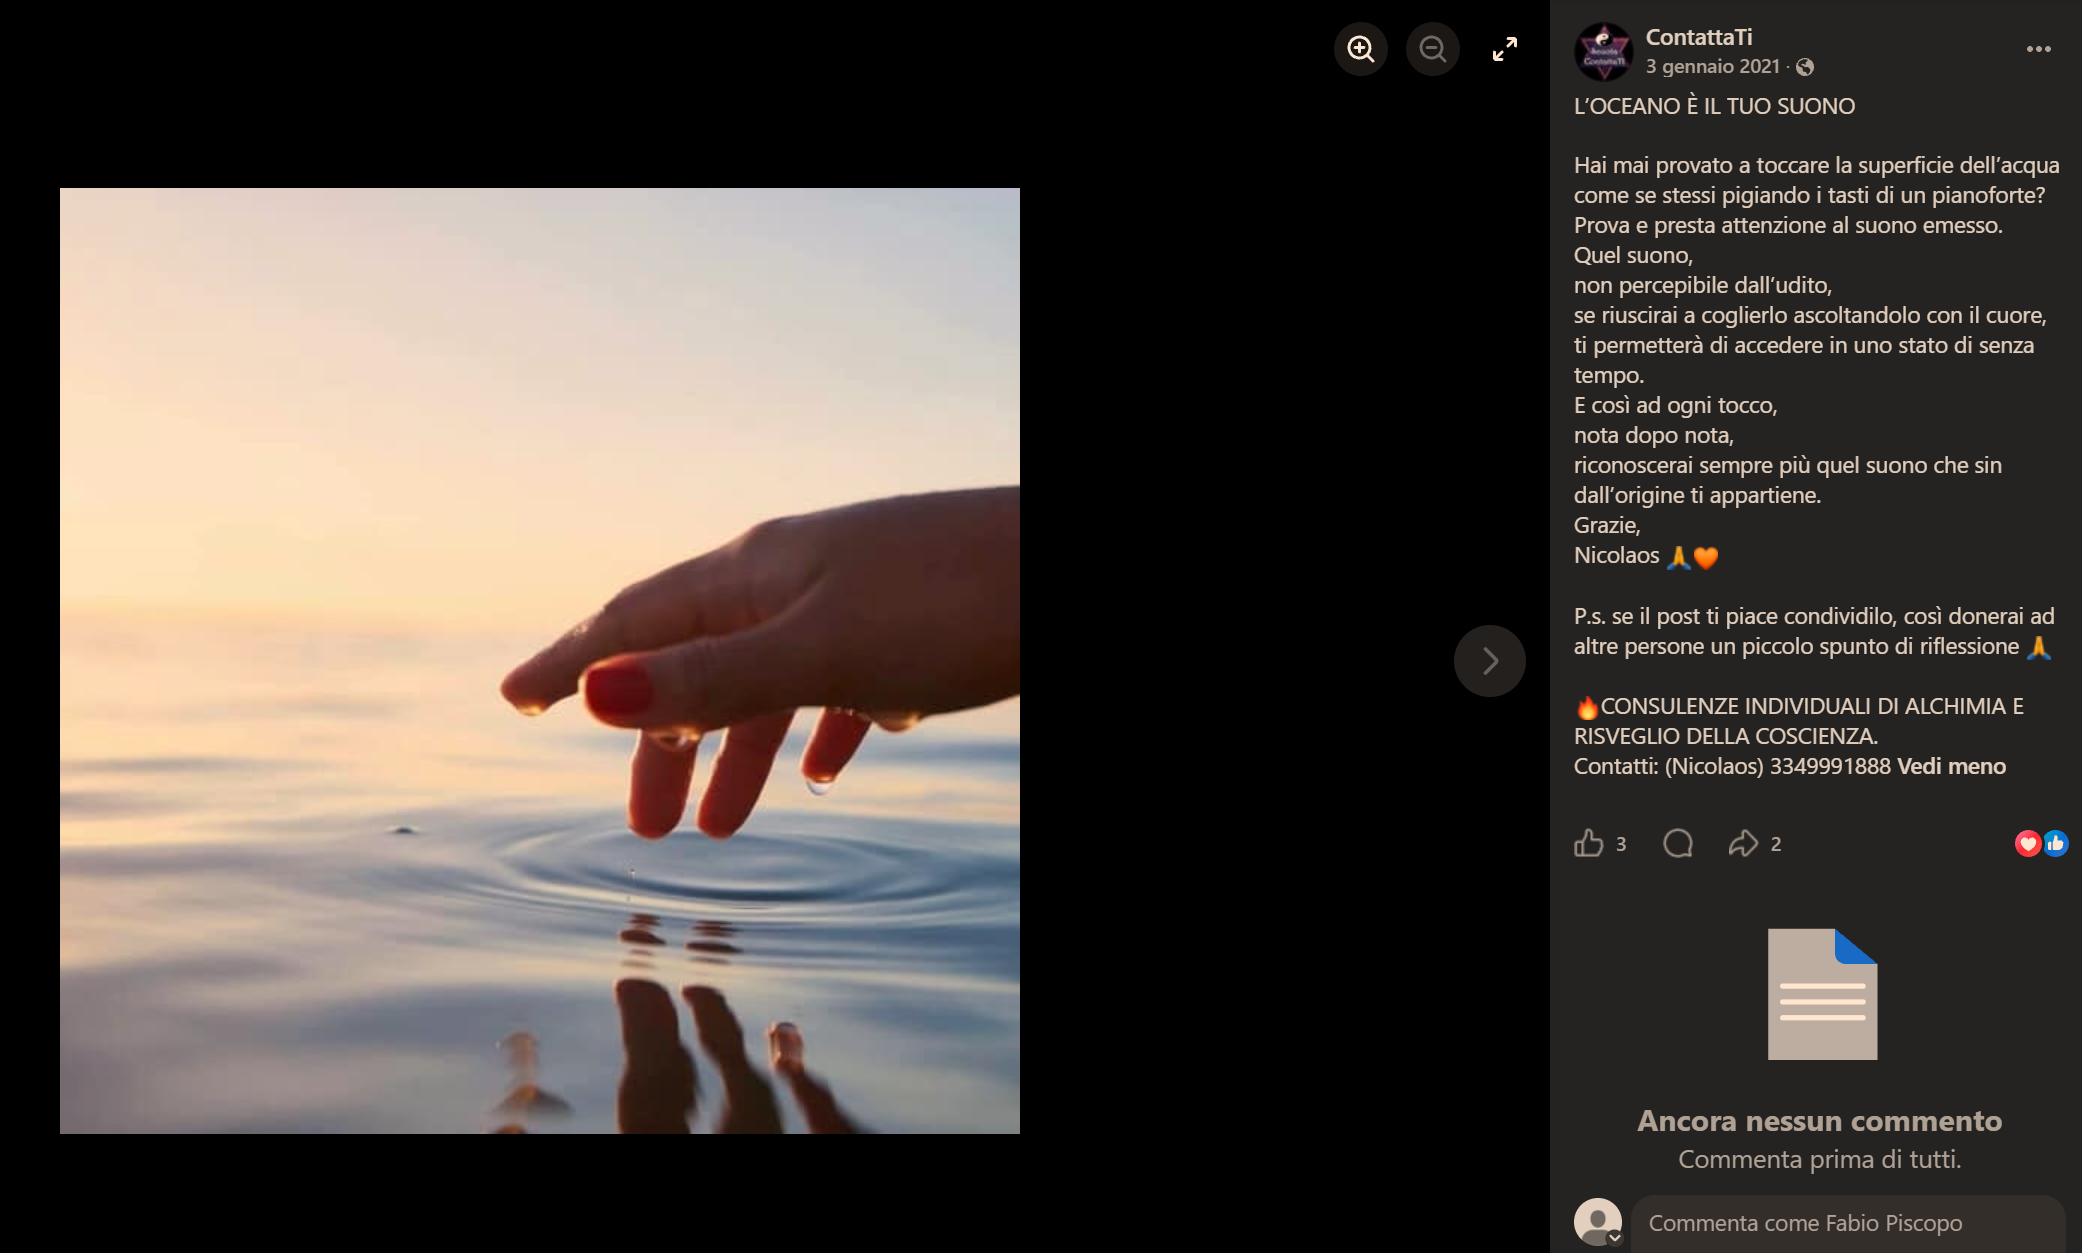
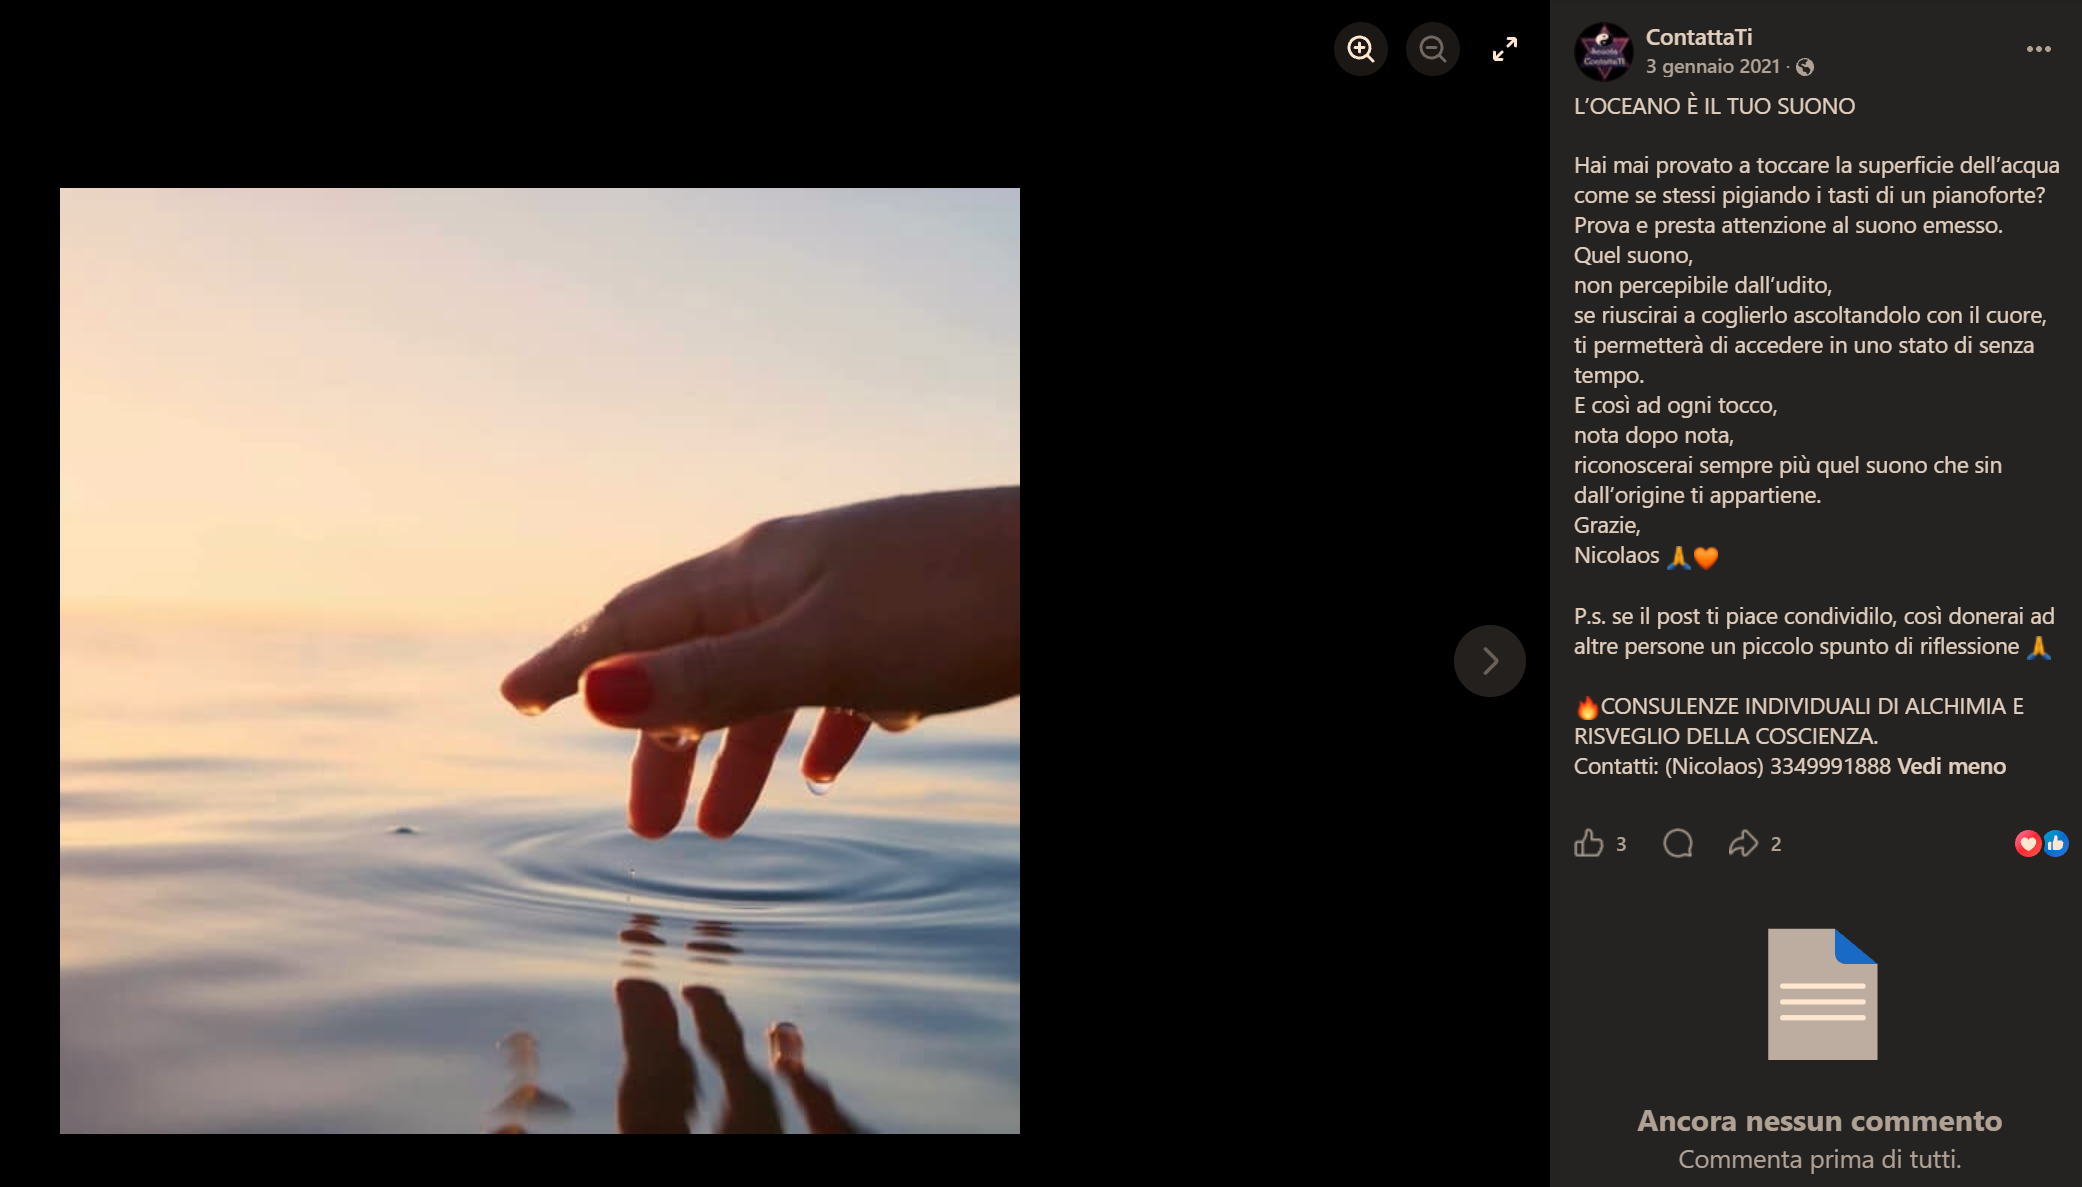
Quaderno a 7 voci, quattro citazioni nuove, screenshot ripuliti dalla barra commenti
- Tre nuove card nel quaderno della Scuola (it + en): 'Sei il contenuto
  o il contenitore?' (kintsugi, Nicolaos), 'Nonno, i tuoi occhi mi
  parlavano' (Nicolaos) e l'Atto di abbandono a Gesù di Don Dolindo
  Ruotolo (estratto, senza le parti ripetute del testo originale)
- Quattro citazioni nell'Oracolo (ora 131): Marthe Robin, Bhagavad
  Gita, Anna Carla (incongruenze e incoerenze) e Nicolaos (gocce e
  tempesta)
- Ritagliata in 14 screenshot di post/ la parte bassa con il campo
  'Commenta come...' che esponeva il profilo personale: rilevamento
  automatico della barra dei commenti, verificato che i tagli non
  tocchino i contenuti

Claude-Session: https://claude.ai/code/session_01HB2prtVDZr74p9yJViQTbp

diff --git a/index.html b/index.html
@@ -1353,6 +1353,40 @@
         <p>Immaginare che Gesù viveva uno stato di coscienza Universale ancora più alto di quello dell'Umanità, in cui le sue scelte, le sue parole e le sue azioni erano dettate dal suo Amore, dalla sua Unione e integrazione con ogni parte dell'esistenza, anche quelle ai nostri occhi più «insignificanti». Comprendere il NOI ci fa capire, in minima parte, quale potenza emanava il suo cuore. È morto per salvare NOI, perdonando NOI che lo abbiamo tradito e ucciso, in nome dell'Unione profonda: ci sentiva in Lui.</p>
       </div></details>
     </div>
+
+    <div class="glass-card riflessione-item sr">
+      <h3 class="card-title">Sei il contenuto o il contenitore?</h3>
+      <p class="riflessione-firma">Nicolaos Anifantis</p>
+      <p class="card-body">In Giappone un vaso rotto si ripara con l'oro: è il kintsugi, e il vaso diventa più bello di prima. Ma io ho smesso di riparare quel vaso con l'oro.</p>
+      <details class="chiave-details"><summary class="chiave-more"><span class="chiave-more-open">Leggi tutto</span><span class="chiave-more-close">Mostra meno</span></summary><div class="chiave-extra">
+        <p>Quando, attraverso un lavoro su di Sé, si riesce a osservare e riconoscere l'involucro esterno (la personalità, l'ego con cui ci si identifica), allora, con un atto di volontà, disidentificandoci da quell'involucro, romperemo i condizionamenti e le meccanicità a esso legate.</p>
+        <p>In Giappone, quando un oggetto in ceramica si rompe, lo si ripara con l'oro, perché un vaso rotto può divenire ancora più bello di quanto non lo fosse in origine: questa tecnica si chiama kintsugi, da «kin» (oro) e «tsugi» (riparare). Ma quel rendere «più bello» è un'illusione, l'ennesima trappola dell'ego: io ho smesso di riparare quel vaso rotto con l'oro per renderlo più bello.</p>
+        <p>Ci siamo incarnati in questa epoca per trasmutare e rendere sempre più limpido il nostro involucro esterno, creandone uno trasparente con il quale sarà impossibile identificarsi, e che mostri all'esterno ciò che c'è al nostro interno. Non riparare quel vaso rotto non significa rinnegare ciò che siamo stati in passato: significa contenerlo al nostro interno, per non dimenticare.</p>
+        <p>Invece di riparare con l'oro qualcosa che ci legherebbe nuovamente a vecchie dinamiche non più funzionali alla nostra evoluzione, è fondamentale proseguire il cammino: costruendo nuovi contenitori sempre più limpidi, vaso dopo vaso, diverremo al contempo contenuto e contenitore di quel vuoto in trasparenza che tutto crea.</p>
+      </div></details>
+    </div>
+
+    <div class="glass-card riflessione-item sr">
+      <h3 class="card-title">Nonno, i tuoi occhi mi parlavano</h3>
+      <p class="riflessione-firma">Nicolaos Anifantis</p>
+      <p class="card-body">Mio nonno non parlava quasi mai, e quelle poche volte lo faceva in greco. Io, bimbo nato e cresciuto in Italia, non ho mai saputo quali fossero le sue idee, i suoi valori, i suoi sogni. Ma i suoi occhi mi parlavano.</p>
+      <details class="chiave-details"><summary class="chiave-more"><span class="chiave-more-open">Leggi tutto</span><span class="chiave-more-close">Mostra meno</span></summary><div class="chiave-extra">
+        <p>Nelle lunghe sere estive, quando andavamo in Grecia per le vacanze, lo trovavo sempre seduto sul terrazzo, di fronte a un tavolino tondo, mentre sorseggiava del whisky. Io mi avvicinavo e ci fissavamo negli occhi: lui all'inizio mi accennava un sorriso, per poi tornare alla sua solita espressione.</p>
+        <p>Nel suo sguardo scorgevo una sostanziale differenza: l'occhio destro era l'occhio di un uomo che aveva sofferto, insoddisfatto della vita, pieno di rabbia e rancore; l'occhio sinistro era pieno di vita e pregno d'amore. Ma in entrambi c'era la malinconia per non aver portato a termine i propri sogni. Questo è quello che io vedevo.</p>
+        <p>Da quegli occhi ho imparato molto. E oggi, anche grazie a lui, vivo la vita alimentando e attuando i miei sogni, che progetto insieme alla mia dolce metà, seduto sul terrazzo di fronte a un tavolino tondo, sorseggiando una tazza di tè. E di Te… che sei stato il mio nonno silenzioso.</p>
+      </div></details>
+    </div>
+
+    <div class="glass-card riflessione-item sr">
+      <h3 class="card-title">Atto di abbandono a Gesù</h3>
+      <p class="riflessione-firma">Don Dolindo Ruotolo</p>
+      <p class="card-body">«Perché vi confondete agitandovi? Lasciate a me la cura delle vostre cose e tutto si calmerà. Ogni atto di vero, cieco, completo abbandono in me produce l'effetto che desiderate e risolve le situazioni spinose.»</p>
+      <details class="chiave-details"><summary class="chiave-more"><span class="chiave-more-open">Leggi tutto</span><span class="chiave-more-close">Mostra meno</span></summary><div class="chiave-extra">
+        <p>«Abbandonarsi a me non significa arrovellarsi, sconvolgersi e disperarsi, volgendo poi a me una preghiera agitata perché io segua voi. Abbandonarsi significa chiudere placidamente gli occhi dell'anima, stornare il pensiero dalla tribolazione, e rimettersi a me perché io solo vi porti, come bimbi addormentati nelle braccia materne, all'altra riva.»</p>
+        <p>«Quante cose opero quando l'anima, tanto nelle sue necessità spirituali quanto in quelle materiali, si volge a me, mi guarda e, dicendomi "pensaci tu", chiude gli occhi e riposa! Voi nel dolore pregate perché io operi, ma perché io operi come credete voi: non siete infermi che domandano al medico la cura, ma infermi che gliela suggeriscono. Pregate come vi ho insegnato nel Pater: "sia fatta la tua volontà", ossia: pensaci tu.»</p>
+        <p>«Quando vedi che le cose si complicano, di' con gli occhi dell'anima chiusi: "Gesù, pensaci tu". Fate così tutti, e vedrete grandi, continui e silenziosi miracoli. Ve lo giuro per il mio amore. Io ci penserò, ve lo assicuro.»</p>
+      </div></details>
+    </div>
   </div>
 </section>
 

diff --git a/en/index.html b/en/index.html
@@ -1355,6 +1355,40 @@
         <p>Imagine that Jesus lived a Universal state of consciousness even higher than that of Humanity, in which his choices, words and actions were dictated by his Love, his Union and integration with every part of existence, even those that to our eyes seem most "insignificant". Understanding the WE lets us grasp, in some small measure, the power his heart radiated. He died to save US, forgiving US who betrayed and killed him, in the name of deep Union: he felt us within Him.</p>
       </div></details>
     </div>
+
+    <div class="glass-card riflessione-item sr">
+      <h3 class="card-title">Are you the content or the container?</h3>
+      <p class="riflessione-firma">Nicolaos Anifantis</p>
+      <p class="card-body">In Japan a broken vase is repaired with gold: it is kintsugi, and the vase becomes more beautiful than before. But I have stopped repairing that vase with gold.</p>
+      <details class="chiave-details"><summary class="chiave-more"><span class="chiave-more-open">Read more</span><span class="chiave-more-close">Show less</span></summary><div class="chiave-extra">
+        <p>When, through work on the Self, we manage to observe and recognise the outer shell (the personality, the ego we identify with), then, through an act of will, dis-identifying from that shell, we break the conditionings and mechanical patterns bound to it.</p>
+        <p>In Japan, when a ceramic object breaks, it is repaired with gold, because a broken vase can become even more beautiful than it originally was: the technique is called kintsugi, from "kin" (gold) and "tsugi" (to repair). But that making it "more beautiful" is an illusion, yet another trap of the ego: I have stopped repairing that broken vase with gold to make it more beautiful.</p>
+        <p>We incarnated in this age to transmute and make our outer shell ever clearer, creating a transparent one impossible to identify with, one that shows on the outside what lies within. Not repairing that broken vase does not mean denying what we have been in the past: it means holding it within us, so as not to forget.</p>
+        <p>Rather than repairing with gold something that would bind us once more to old dynamics no longer serving our evolution, what matters is to continue the journey: building ever clearer containers, vase after vase, we shall become at once content and container of that transparent emptiness which creates all things.</p>
+      </div></details>
+    </div>
+
+    <div class="glass-card riflessione-item sr">
+      <h3 class="card-title">Grandfather, your eyes spoke to me</h3>
+      <p class="riflessione-firma">Nicolaos Anifantis</p>
+      <p class="card-body">My grandfather hardly ever spoke, and the few times he did, he spoke in Greek. I, a child born and raised in Italy, never knew his ideas, his values, his dreams. But his eyes spoke to me.</p>
+      <details class="chiave-details"><summary class="chiave-more"><span class="chiave-more-open">Read more</span><span class="chiave-more-close">Show less</span></summary><div class="chiave-extra">
+        <p>On long summer evenings, when we went to Greece for the holidays, I would always find him sitting on the terrace, at a small round table, sipping whisky. I would come close and we would look into each other's eyes: at first he would hint at a smile, then return to his usual expression.</p>
+        <p>In his gaze I saw a substantial difference: the right eye was the eye of a man who had suffered, unsatisfied with life, full of anger and resentment; the left eye was full of life and steeped in love. But in both there was the melancholy of dreams never brought to completion. That is what I saw.</p>
+        <p>From those eyes I learned a great deal. And today, thanks also to him, I live my life feeding and enacting my dreams, planning them with my sweet other half, sitting on the terrace at a small round table, sipping a cup of tea. And thinking of You… who were my silent grandfather.</p>
+      </div></details>
+    </div>
+
+    <div class="glass-card riflessione-item sr">
+      <h3 class="card-title">Act of abandonment to Jesus</h3>
+      <p class="riflessione-firma">Don Dolindo Ruotolo</p>
+      <p class="card-body">"Why do you confuse yourselves by worrying? Leave the care of your affairs to me and everything will be peaceful. Every act of true, blind, complete surrender to me produces the effect you desire and resolves all difficult situations."</p>
+      <details class="chiave-details"><summary class="chiave-more"><span class="chiave-more-open">Read more</span><span class="chiave-more-close">Show less</span></summary><div class="chiave-extra">
+        <p>"To surrender to me does not mean to fret, to be upset, or to despair, and then to turn to me an agitated prayer asking me to follow you. To surrender means to close peacefully the eyes of the soul, to turn thought away from the trouble, and to entrust yourselves to me, so that I alone may carry you, like sleeping children in their mother's arms, to the other shore."</p>
+        <p>"How many things I accomplish when the soul, in its spiritual and material needs, turns to me, looks at me and, saying 'you take care of it', closes its eyes and rests! In pain you pray for me to act, but for me to act as you see fit: you are not the sick asking the doctor for a cure, but the sick suggesting it to him. Pray as I taught you in the Our Father: 'thy will be done', that is: you take care of it."</p>
+        <p>"When you see that things are getting complicated, say with the eyes of the soul closed: 'Jesus, you take care of it'. Do this, all of you, and you will see great, continual and silent miracles. I swear it by my love. I will take care of it, I assure you."</p>
+      </div></details>
+    </div>
   </div>
 </section>
 

diff --git a/data/citazioni.js b/data/citazioni.js
@@ -258,5 +258,13 @@ window.SC_QUOTES = [
 {it:{t:"La natura parla un linguaggio che non è quello che vediamo ma quello che possiamo sentire; secondo me i gelsomini parlano attraverso il profumo. L'apertura della rosa l'ho sempre vista come un insegnamento: senti che lo fa per te che la stai guardando, perché non ha altro scopo.",a:"Franco Battiato"},
  en:{t:"Nature speaks a language that is not what we see but what we can feel; to me, jasmine speaks through its scent. I have always seen the opening of a rose as a teaching: you feel it does so for you who are watching, because it has no other purpose.",a:"Franco Battiato"}},
 {it:{t:"Io sono il mare: non sono una goccia che si perde nel mare, ma sono il mare che si riconosce nella goccia. Tutti i fiumi trovano una via per giungere al mare, perché si riconoscono in lui trovando se stessi. Quello che sappiamo è una goccia, quello che non sappiamo è un oceano. Sii il mare, mia piccola grande Anima.",a:"Nicolaos Anifantis"},
- en:{t:"I am the sea: I am not a drop lost in the sea, I am the sea that recognises itself in the drop. All rivers find a way to reach the sea, because they recognise themselves in it and so find themselves. What we know is a drop, what we do not know is an ocean. Be the sea, my little great Soul.",a:"Nicolaos Anifantis"}}
+ en:{t:"I am the sea: I am not a drop lost in the sea, I am the sea that recognises itself in the drop. All rivers find a way to reach the sea, because they recognise themselves in it and so find themselves. What we know is a drop, what we do not know is an ocean. Be the sea, my little great Soul.",a:"Nicolaos Anifantis"}},
+{it:{t:"Cercare Dio è la fede, trovarlo è la speranza, conoscerlo è l'amore, sentirlo è la pace, gustarlo è la gioia, possederlo è l'estasi.",a:"Marthe Robin"},
+ en:{t:"To seek God is faith, to find him is hope, to know him is love, to feel him is peace, to taste him is joy, to possess him is ecstasy.",a:"Marthe Robin"}},
+{it:{t:"S'inganna colui che crede di potersi sottrarre ai risultati dell'azione con l'astenersi da questa e col restare inoperoso. Nell'universo non esiste affatto l'inazione, poiché tutto vi è in costante attività e nulla può sfuggire alla legge generale.",a:"Bhagavad Gita"},
+ en:{t:"Deceived is he who believes he can escape the results of action by abstaining from it and remaining idle. In the universe there is no such thing as inaction, for everything in it is in constant activity and nothing can escape the general law.",a:"Bhagavad Gita"}},
+{it:{t:"Incongruenze e incoerenze sono alla base dell'addormentamento. Si può essere incoerenti solo se non si è nel cuore, e si può essere incongruenti solo se non si è fedeli al proprio scopo di vita. Solo una è la strada che porta al Sole.",a:"Anna Carla Digregorio"},
+ en:{t:"Incongruences and inconsistencies lie at the root of our sleep. One can be inconsistent only when not in the heart, and incongruent only when unfaithful to one's life purpose. Only one road leads to the Sun.",a:"Anna Carla Digregorio"}},
+{it:{t:"Siamo gocce d'acqua che evaporano ancor prima di toccare il suolo, tutte le volte che lottiamo per un ideale e ci scontriamo con qualcosa di apparentemente più grande di noi. Ma tutte quelle gocce, risalendo in alto, si riconoscono le une con le altre e unendosi divengono tempesta.",a:"Nicolaos Anifantis"},
+ en:{t:"We are drops of water that evaporate before even touching the ground, every time we fight for an ideal and collide with something seemingly greater than us. But all those drops, rising up again, recognise one another and, uniting, become a storm.",a:"Nicolaos Anifantis"}}
 ];
